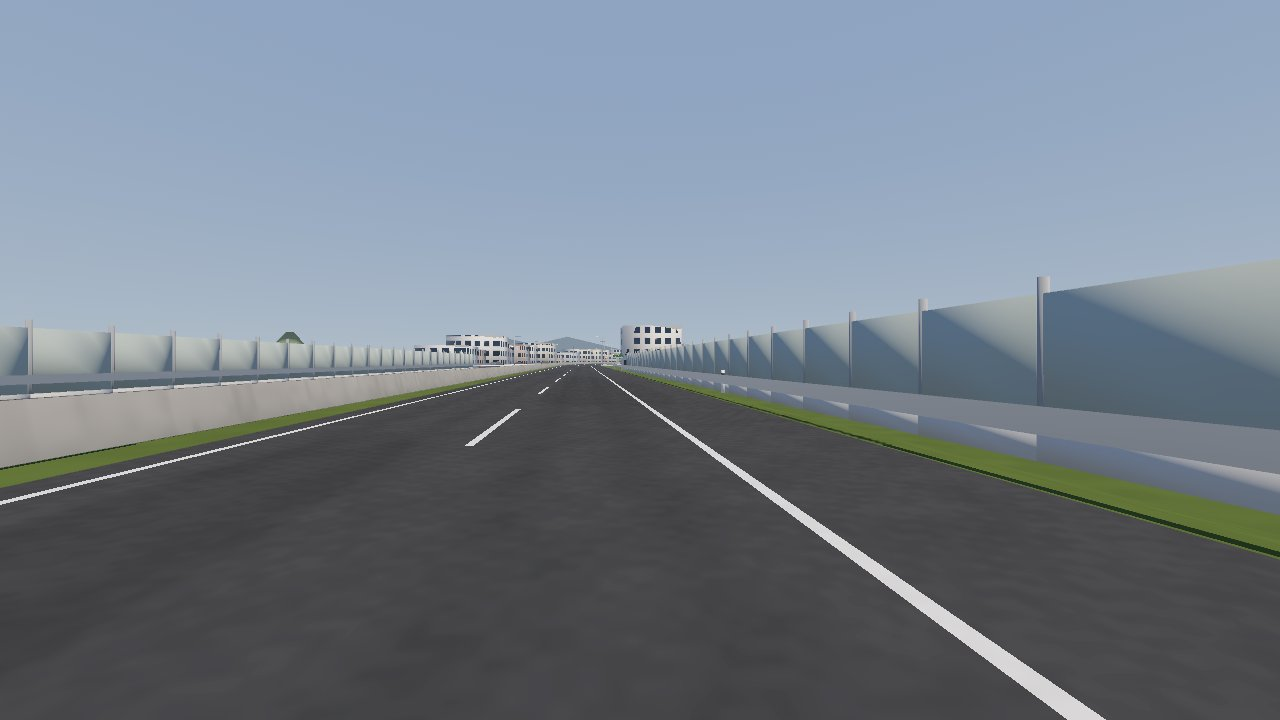
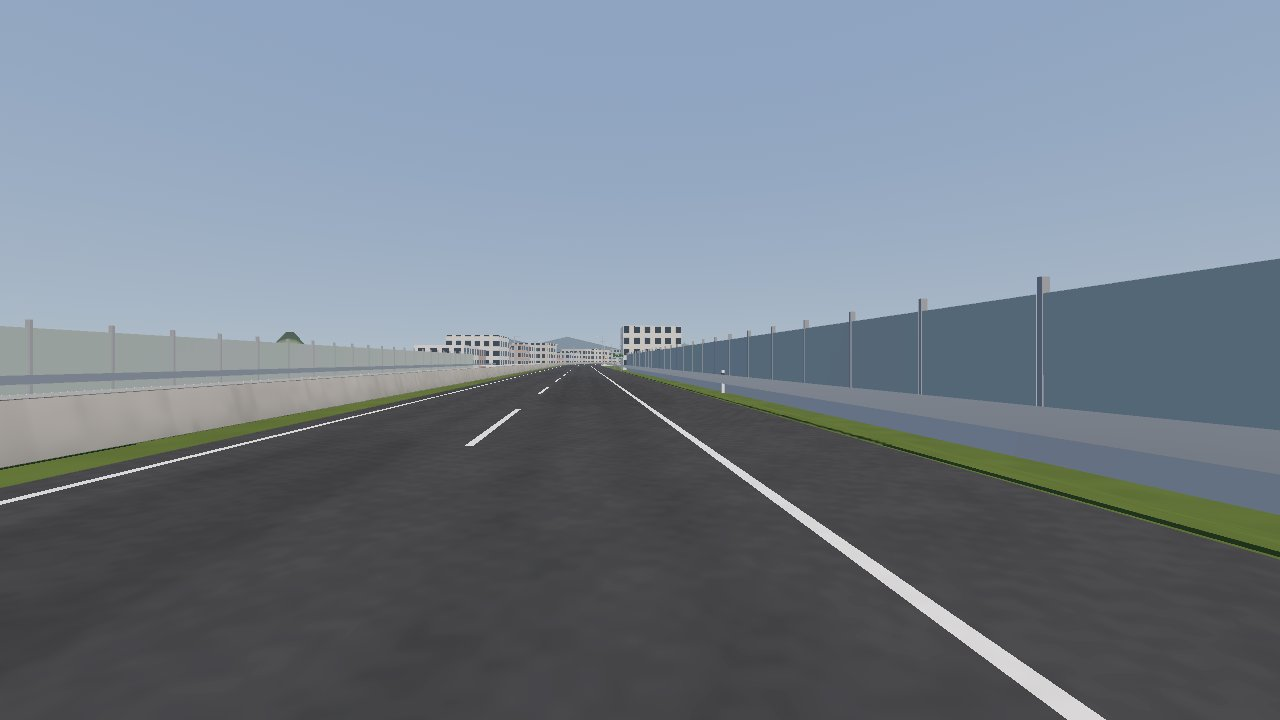
Przegląd renderów: płaskie cieniowanie zabudowy, trawa w kolorze biomu, nawierzchnia kicker na wielkiej skoczni, przybliżone ujęcia, HANDOVER sesja 7

diff --git a/HANDOVER.md b/HANDOVER.md
@@ -4,7 +4,7 @@ Dokument przekazania dla agenta, który nie pamięta wcześniejszych sesji.
 Ma wystarczyć, żeby od razu kontynuować pracę. Zasady utrzymywania
 dokumentu są w `CLAUDE.md`.
 
-Ostatnia aktualizacja: 2026-11-09, sesja 6 (wieczór: wielka skocznia, Autostrada etap 1, rekuperacja, nowe boty, tekstury poza repo)
+Ostatnia aktualizacja: 2026-11-10, sesja 7 (noc: Autostrada domyślna, biomy, ruch, waśnie botów, pula botów, przegląd renderów)
 
 ---
 
@@ -408,8 +408,10 @@ zawiera tylko notę, pełny tekst trzeba dograć).
   - geometria: osobna siatka i kolizja dla B, tunel wokół obu, ściany
     rozdzielające.
 - **STAN NAJNOWSZYCH USTALEŃ (zrobione i wgrane 2026-11-07):**
-  - Wąwóz z łupku jest domyślną trasą ("Wąwóz"); estakady (dawny tor na
-    filarach) i trasa pokazowa zostały jako opcje.
+  - **Domyślna trasa: Autostrada** (użytkownik do chmury 2026-11-09:
+    "cała trasa jest na autostradzie"; `SETTINGS_VERSION` 9 jednorazowo
+    przestawia zapisany "canyon" na "autostrada"). Wąwóz z łupku,
+    estakady i trasa pokazowa zostały jako opcje.
   - **Życia = auta** (ustalenie późniejsze niż "bez dźwigów"): życie
     traci się, gdy auto **skończy na dachu** (nie da się jechać), gdy jest
     **rozbite (uszkodzenia 100%)** albo (estakady) spadnie. **Każda utrata
@@ -472,9 +474,10 @@ zawiera tylko notę, pełny tekst trzeba dograć).
   samochodu"): `WorkshopShop` (cennik chmury) podłączony - naprawy
   strefami (silnik, skrzynia, karoseria, hamulce, zawieszenie), pełna
   naprawa z rabatem, zapasowe auto, większy bak; wymiana silnika
-  300 pkt x próg; menu otwarte do "Wyjazd". Ceny stref x
-  `WorkshopShop.car_multipliers` (moc, masa, elektryk: drogi silnik,
-  tania skrzynia, silniki w kołach drożej; diesel: droższa skrzynia).
+  300 pkt x próg (z odliczeniem za stary silnik); menu otwarte do
+  "Wyjazd". Cennik z chmury: `WorkshopShop.car_spec` (typ auta: napęd,
+  rodzaj silnika, masa, moc) x `zone_factor`, na stacji narzut x1,25.
+  Nie przywracać lokalnego `car_multipliers` (zastąpiony).
   **Naprawy także na stacjach** (postój < 3 km/h na pasie stacji, sam
   serwis bez silnika). Bez dźwigu w menu. Test: `shop_test`.
 - **Klakson** (użytkownik 2026-11-09): klik lewego drążka (H na
@@ -520,7 +523,7 @@ zawiera tylko notę, pełny tekst trzeba dograć).
   beczki, obroty i mnożnik czystego lądowania bez zmian.
 - **HUD z mapką na prawo od kierownicy** (użytkownik do chmury, PR #29):
   panel `HudPanel` w `seat + HUD_FROM_EYES`, nie zasłania zegarów.
-- **TRYB AUTOSTRADA (ustalony 2026-11-09, do zrobienia - sekcja 8)**:
+- **TRYB AUTOSTRADA (ustalony 2026-11-09, etapy 1-3 zrobione, domyślna trasa - sekcja 8)**:
   - **Nowy tryb obok wąwozu** (wybór trasy w menu; wąwóz zostaje).
   - Autostrada **na całej długości**, **2 pasy w każdą stronę**, dwie
     jezdnie za barierą, na drugiej ruch z naprzeciwka.
@@ -1681,6 +1684,34 @@ nie - komfort VR i wydajność na Queście ocenia użytkownik.
   topspeed (poza zestawem), regen, highway_plan/gen, world_origin,
   bot_drive, feud, endless autostrada).
 
+### 2026-11-10, sesja 7 (noc, użytkownik śpi, praca z chmurą)
+
+- **Autostrada etap 2-3**: biomy (paleta terenu `HighwayScenery.
+  BIOME_GROUND` w shaderze `ground` i w trawie przy jezdni per kawałek,
+  horyzont wg biomu, morze), ruch na obu jezdniach (`TrafficZone`,
+  pojawianie/znikanie poza wzrokiem), miasto jako ulica (bez barier
+  i nasypu, chodniki, oznakowanie autostrady). Autostrada domyślna.
+- **Pula botów** (`BOT_POOL_WARM` 6): pojawienie się bota bez ~170 ms
+  przycięcia. **Budowa kawałka trasy w 3 klatkach** (`await _slice()`):
+  szczyt 22 -> 4,3 ms.
+- **Waśnie botów wpięte** (`FeudDirector`): 3 gangi z kolorem, potyczki
+  tylko w zasięgu wzroku, najwyżej 2 naraz, uderzenie gracza w bota
+  z potyczki = sojusz przeciw graczowi. Test `feud_play_test`.
+- **Przegląd renderów chmury** (outbox `2026-11-10-noc-agent-lokalny.md`):
+  - zabudowa `HighwayScenery` płasko cieniowana
+    (`set_smooth_group(0xFFFFFFFF)` - bez tego `generate_normals`
+    uśredniał normalne narożników budynków i ściany były w smugach);
+  - chodnik jaśniejszy (0,42), trawa przy jezdni w kolorze biomu;
+  - **nawierzchnia "kicker"** na wielkiej skoczni (pasy czerwono-białe,
+    layout 3 w `road.gdshader`), znak "danger" z tabliczką "SKOCZNIA"
+    (`road_plate`); opony traktują nieznaną nawierzchnię jak suchą;
+  - ujęcia w `render_tour.gd` przybliżone. Uwaga: wiata stacji stoi
+    ~150-250 m za `station.start` z planu (40 m dobiegu + pas), skocznia
+    zaczyna się 120 m za `jump.start` - ujęcia są ustawione pod to.
+- Testy: pełny `./quest.sh test` OK (2026-11-10, po przeglądzie
+  renderów; endless autostrada 10,05 km w 240 s, 4 przesunięcia świata,
+  3 odrodzenia - autopilot nie omija botów).
+
 ## 8. Kolejka zadań
 
 Kolejność to kolejność próśb użytkownika; zapytaj, od czego zacząć.
@@ -1709,10 +1740,25 @@ Kolejność to kolejność próśb użytkownika; zapytaj, od czego zacząć.
    z botami, autopilot ich nie omija). Autopilot testu: wzmocnienie
    kierownicy maleje z prędkością (przy 220 km/h stałe rozbujało go) i
    w trybie Autostrada trzyma ograniczenia.
-   Dalej: etap 2 (biomy: teren w shaderze, horyzont, `world_wrap`
-   w shaderach - jezdnia ma dystans w UV.y jako float32!), etap 3
-   (ruch `TrafficZone`, auta z epoki), etap 4 (objazdy). Pomiar na
-   Queście (`hwy_scenery`, PERF+) przed paczkami modeli.
+   **Etapy 2-3 zrobione (2026-11-10)**: biomy, horyzont, morze,
+   `world_origin_wrap` w shaderach, ruch na obu jezdniach, waśnie.
+   Dalej (kolejność proponowana):
+   - **Żetony waśni** (odpowiedź chmury: K=4 żetony pościgu, potyczka
+     fizyczna tylko w `LOD_NEAR` 120 m i w stożku widzenia, koniec po
+     2 s poza wzrokiem, szał bez żetonu jedzie po szynie) - nie zrobione.
+   - **`OncomingSkirmish`** (moduł chmury, niewpięty): jedna scena naraz,
+     co 1,2-2,5 km, kolory gangów.
+   - **Auta z epoki** (`models/period_cars/<model>/body.obj+wheel.obj`,
+     parametry policzone przez chmurę - outbox
+     `2026-11-10-noc-agent-lokalny.md` pkt 3): `CarStyles`, menu, boty.
+   - **Głębia miast** (przegląd renderów pkt 1): tylne rzędy, miejski
+     grunt, przecznice; potem `CityGraph` etap 5 (inbox
+     `miasta-leniwy-graf`).
+   - Z przeglądu renderów: ciemne trójkąty u podstaw budynków (cień?),
+     oświetlenie stożków drzew (`Scenery._cone`), nazwa biomu "wąwóz".
+   - Etap 4 (objazdy zamiast skoczni na jezdni głównej), refaktor
+     estakad (inbox `2026-11-09-pozostalosci-estakad.md`).
+   - Pomiar na Queście (`hwy_scenery`, PERF+), wgranie APK z użytkownikiem.
 00. **"Dziwne wypadki" i "auto wolno się rozpędza" (użytkownik
    2026-11-09)** - stan dochodzenia:
    - Log z gogli (linia "PERF tempo gry", co 5 s): **tempo 95-100%** -
@@ -1874,5 +1920,5 @@ Propozycje (do uzgodnienia):
 - Styl wizualny: propozycja low-poly z płaskim cieniowaniem.
   Niepotwierdzone.
 - Czy ABS i ESP też przełączać w trakcie jazdy, i pod jakimi przyciskami?
-- Trasa generowana: skończona liczba odcinków czy bez końca? Trudność
-  zależna od mocy wybranego auta czy stała?
+- Trudność trasy zależna od mocy wybranego auta czy stała? (Trasa jest
+  bez końca - ustalone.)

diff --git a/docs/agent/outbox/2026-11-10-noc-agent-lokalny.md b/docs/agent/outbox/2026-11-10-noc-agent-lokalny.md
@@ -202,3 +202,19 @@ gotowe w układzie auta z gry**, nie trzeba liczyć skali ani obrotu.
   (rozstaw kół 1,29 m z bryły) przy 120 km/h w sinusie z przerwą obraca
   się mimo ESP - przy 80 km/h OK. Do rozważenia `esp_char_speed` zależny
   od rozstawu osi; sprawdź w grze, zanim cokolwiek zmienisz.
+
+## Agent lokalny: co zrobione z przeglądu renderów (2026-11-10)
+
+- Pkt "smugi na budynkach": `HighwayScenery.mesh()` i chodniki z
+  `set_smooth_group(0xFFFFFFFF)` - płaskie cieniowanie (`generate_normals`
+  uśredniał normalne narożników).
+- Chodnik jaśniejszy (0,42; 0,42; 0,41); trawa przy jezdni w palecie
+  biomu (`BIOME_GROUND` przeniesione do `HighwayScenery`).
+- Wielka skocznia: nowa nawierzchnia `"kicker"` (pasy czerwono-białe,
+  layout 3 w `road.gdshader`, przyczepność jak sucha), znak "danger"
+  z tabliczką "SKOCZNIA" (`road_plate`).
+- Ujęcia `render_tour` przybliżone (stacja: wiata stoi ~150-250 m za
+  `station.start`; skocznia zaczyna się 120 m za `jump.start`).
+- Czeka: głębia miast (pkt 1), ciemne trójkąty u podstaw (do sprawdzenia,
+  czy to cienie), stożki drzew, nazwa biomu. Żetony waśni (K=4) i
+  `OncomingSkirmish` - w kolejce w HANDOVER sekcja 8 pkt 000.
